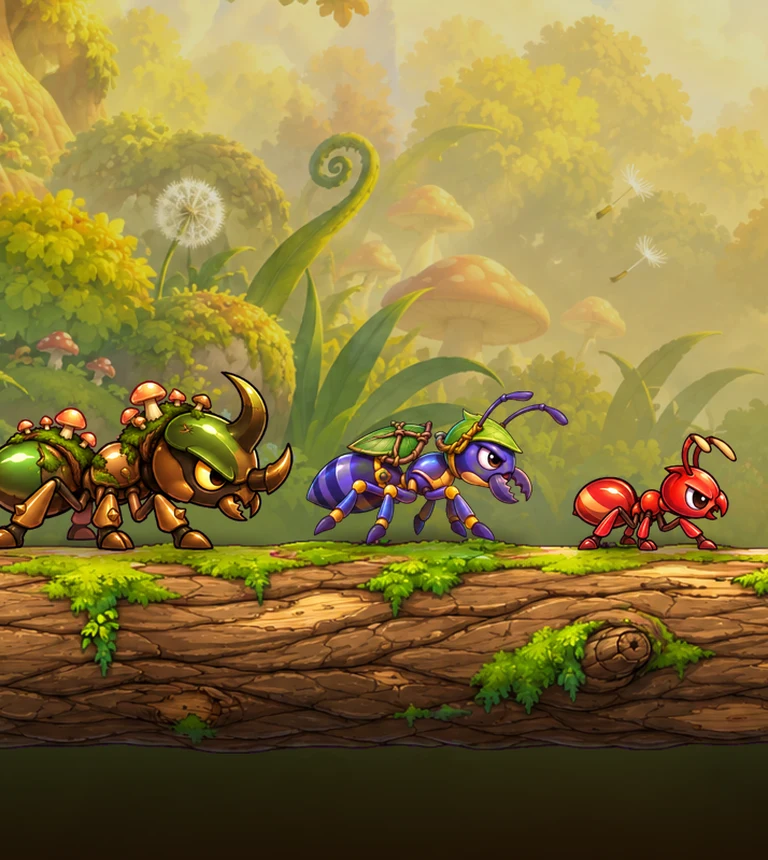
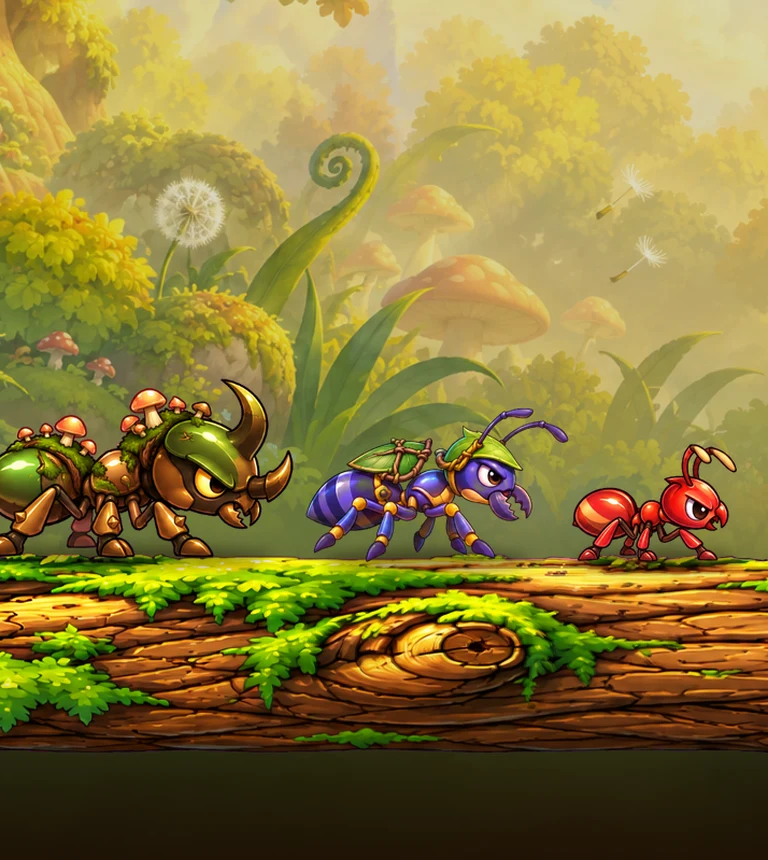
Expedition art and board: queen stands on the throne dirt, stage and difficulty above the title, subtitle lower
compose-expedition-cover.py places creatures on the game's collision (shared/physics), not on painted decoration.

Claude-Session: https://claude.ai/code/session_01VYLKnA12K7s4Mc1zUsoRRS

Changed region(s): [[0.0, 0.4233, 1.0, 0.8767]]

diff --git a/src/components/Expedition.css b/src/components/Expedition.css
@@ -13,12 +13,14 @@
 .expedition-banner-call span{font-size:13px;font-weight:700;color:#ffdca4}
 @keyframes expedition-call{50%{transform:scale(1.05);color:#fff1b8}}
 /* Chosen expedition on the board: tall gradient, 3D title (same recipe as the battle texts), difficulty, drops. */
-.expedition-banner-choice{padding:120px 14px 14px;gap:8px;background:linear-gradient(transparent,#2c1004a6 22%,#2c1004e0 48%,#1a0802f7 75%)}
+.expedition-banner-choice{padding:150px 14px 14px;gap:8px;background:linear-gradient(transparent,#2c1004a6 22%,#2c1004e0 48%,#1a0802f7 75%)}
 .expedition-title{--face-top:#fffbd0;--face-middle:#ffd84a;--face-bottom:#f08a12;--text-edge:#7a3510;--text-depth:#5e2410;position:relative;display:inline-block;isolation:isolate;font:400 clamp(40px,4.2vw,62px)/1.02 'Titan One','Lilita One','Nunito',sans-serif;white-space:nowrap;letter-spacing:.5px;filter:drop-shadow(0 6px 4px #0009)}
 .expedition-title::before{content:attr(data-text);position:absolute;inset:0;z-index:-1;color:var(--text-depth);-webkit-text-stroke:6px #2a1006;paint-order:stroke fill;text-shadow:0 1px var(--text-depth),1px 2px var(--text-depth),1px 3px var(--text-depth),2px 4px var(--text-depth),2px 5px var(--text-depth),3px 6px var(--text-depth),3px 7px #1d0a04}
 .expedition-title>span{position:relative;display:block;background:linear-gradient(var(--face-top) 8%,var(--face-middle) 45%,var(--face-bottom) 84%);background-clip:text;-webkit-background-clip:text;color:transparent;-webkit-text-stroke:1.4px var(--text-edge);paint-order:stroke fill}
 :is(.pvp-room,.pvp-hall,.expedition-picker) :is(.expedition-title,.expedition-title>span){font-family:'Titan One','Lilita One','Nunito',sans-serif}
 .expedition-banner-choice .expedition-difficulty-tag{margin-top:0}
+.expedition-banner-choice .expedition-title{margin-bottom:6px}
+.expedition-banner-choice .expedition-stage-badge,html.mobile-landscape .expedition-banner-choice .expedition-stage-badge{position:relative;top:auto;left:auto}
 .expedition-stage-badge{position:absolute;top:12px;left:12px;display:flex;align-items:center;gap:6px;height:44px;padding:0 12px 0 10px;border:2px solid #fff0b8;border-radius:11px;background:linear-gradient(#fff3b0,#ffc93c 45%,#f29a12 55%,#c9660d);box-shadow:inset 0 1px #fffbe0,inset 0 -3px #9a4a0a,0 0 0 2px #5b2a0e,0 3px 0 2px #2c1004,0 0 14px #ffb44f88;line-height:1;pointer-events:none}
 .expedition-stage-badge::before{content:'';position:absolute;inset:3px;border:1px solid #fff6cf99;border-radius:8px}
 .expedition-stage-badge small{font:900 11px/1 'Nunito',sans-serif;letter-spacing:.12em;text-transform:uppercase;color:#7a3a0a;text-shadow:0 1px #fff4c2}
@@ -68,7 +70,7 @@ html.mobile-landscape .pr-expedition-pick{display:flex}
 .expedition-cover-top{position:absolute;left:0;right:0;top:0;padding:12px 16px 50px;background:linear-gradient(#1a0802d9,#2c100488 55%,transparent)}
 .expedition-cover h3{margin:0;line-height:1;text-shadow:none}
 .expedition-cover .expedition-title{font-size:46px}
-.expedition-cover-top small{display:block;margin-top:2px;font:800 13px/1.2 'Nunito',sans-serif;color:#ffe0a8;text-shadow:0 1px 2px #000}
+.expedition-cover-top small{display:block;margin-top:10px;font:800 13px/1.2 'Nunito',sans-serif;color:#ffe0a8;text-shadow:0 1px 2px #000}
 .expedition-cover-level{position:absolute;top:14px;right:14px;padding:3px 10px;border-radius:999px;background:#1a0802b3;border:1px solid #ffd36b99;font:900 12px/1.3 'Nunito',sans-serif;color:#ffe08a}
 .expedition-cover-info{position:absolute;left:0;right:0;bottom:0;display:grid;gap:10px;padding:70px 14px 12px;background:linear-gradient(transparent,#2c1004b3 35%,#1a0802f2 70%)}
 .expedition-cover-stats{display:flex;align-items:flex-end;justify-content:space-between;gap:12px}

diff --git a/src/components/ExpeditionRoom.tsx b/src/components/ExpeditionRoom.tsx
@@ -79,8 +79,7 @@ export function ExpeditionRoom({onInventory}:{onInventory:()=>void}){
     <button type="button" className="pr-banner-art expedition-banner-art" disabled={!online} onClick={()=>setPicking(true)} aria-label={choice?`Expedição ${choice.name}, ${DIFFICULTY_NAMES[room.expedition!.difficulty]}, estágio ${stageIndex+1}. Ver expedições`:'Selecionar uma expedição'}>
      <img src={choice?choice.board:'/assets/expeditions/room-banner.webp'} alt="" draggable={false}/>
      {!stage&&<h2 aria-hidden="true"><span>Central de</span><strong data-text="Expedições">Expedições</strong></h2>}
-     {choice&&stage&&<StageBadge stage={stageIndex+1}/>}
-     {choice&&stage?<div className="expedition-banner-choice"><BattleText className="expedition-title">{choice.name}</BattleText><span className="expedition-difficulty-tag" data-difficulty={room.expedition!.difficulty}>{DIFFICULTY_NAMES[room.expedition!.difficulty]}</span><ExpeditionDrops expedition={choice}/></div>
+     {choice&&stage?<div className="expedition-banner-choice"><StageBadge stage={stageIndex+1}/><span className="expedition-difficulty-tag" data-difficulty={room.expedition!.difficulty}>{DIFFICULTY_NAMES[room.expedition!.difficulty]}</span><BattleText className="expedition-title">{choice.name}</BattleText><ExpeditionDrops expedition={choice}/></div>
       :<div className="expedition-banner-call"><Compass size={28} aria-hidden="true"/><strong>Selecione uma expedição</strong><span>{host?'Clique aqui para ver as expedições':'O líder escolhe para onde a equipe vai'}</span></div>}
     </button>
    </section>

diff --git a/scripts/compose-expedition-cover.py b/scripts/compose-expedition-cover.py
@@ -12,14 +12,18 @@ OUT = 'public/assets/expeditions/anthill/picker-art.webp'
 def stage(name, x0, top=None, w=None, h=None):
     top, w, h = top if top is not None else TOP, w or W, h or H
     art = Image.open(f'test-results/maps-kit/{name}/montage.png').convert('RGBA').crop((x0, top, x0 + w, top + h))
-    terrain = Image.open(f'public/assets/maps/{name}/terrain-world.png').split()[-1]
-    return art, terrain
+    return art, name
 
 def ground(terrain, x):
-    for y in range(terrain.height):
-        if terrain.getpixel((x, y)) > 128:
-            return y
-    return terrain.height
+    """Where a creature stands: the game's own collision (decoration such as the throne's leaves has none)."""
+    return COLLISION[terrain][x]
+
+# Ground heights from shared/physics.ts for each map, so the art matches what players see in battle.
+import json, subprocess
+COLLISION = {}
+for name in ('anthill-1', 'anthill-2'):
+    code = f"import {{createTerrain,ground}} from './shared/physics.ts';const t=createTerrain('{name}');console.log(JSON.stringify(Array.from({{length:3072}},(_,x)=>ground(t,x))))"
+    COLLISION[name] = json.loads(subprocess.run(['npx', 'tsx', '-e', code], capture_output=True, text=True, check=True).stdout)
 
 def frame(kind, index=0):
     strip = Image.open(f'public/assets/expeditions/anthill/{kind}.png').convert('RGBA')
